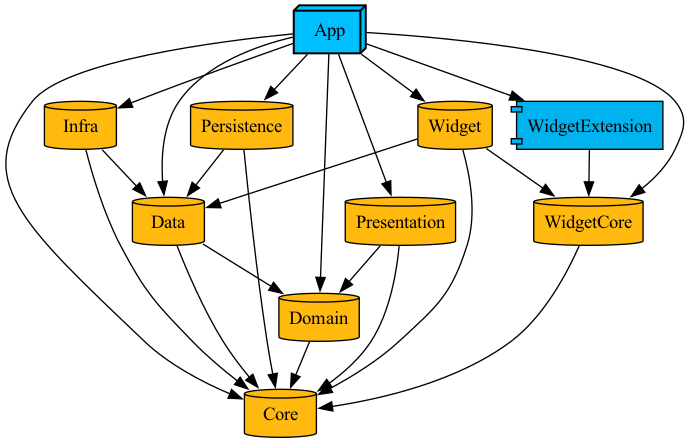
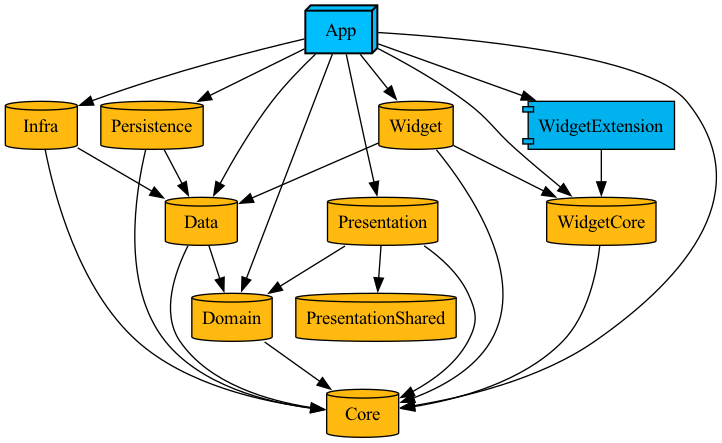
[#662] 공용 UI 요소를 Shared 모듈로 분리한다 (#674)
* chore: PresentationShared 하위 모듈 추가

* chore: Presentation 공용 타입을 PresentationShared로 이동

* docs: Tuist 의존성 그래프 갱신

diff --git a/Application/Presentation/Shared/Sources/Common/NavigationRouter.swift b/Application/Presentation/Shared/Sources/Common/NavigationRouter.swift
@@ -1,22 +1,21 @@
 //
 //  NavigationRouter.swift
-//  Presentation
+//  PresentationShared
 //
 //  Created by 최윤진 on 1/1/26.
 //
 
 import SwiftUI
-import Domain
 
 @Observable
-final class NavigationRouter<Route: Hashable> {
-    var path: [Route] = []
+public final class NavigationRouter<Route: Hashable> {
+    public var path: [Route] = []
 
-    var root: Route? {
+    public var root: Route? {
         path.first
     }
 
-    var detailPath: [Route] {
+    public var detailPath: [Route] {
         get {
             Array(path.dropFirst())
         }
@@ -29,11 +28,13 @@ final class NavigationRouter<Route: Hashable> {
         }
     }
 
-    func replace(with route: Route) {
+    public init() {}
+
+    public func replace(with route: Route) {
         path = [route]
     }
 
-    func push(_ route: Route) {
+    public func push(_ route: Route) {
         path.append(route)
     }
 }

diff --git a/Application/Presentation/Shared/Project.swift b/Application/Presentation/Shared/Project.swift
@@ -1,0 +1,12 @@
+import ProjectDescription
+import ProjectDescriptionHelpers
+
+let project = Project.devlogFramework(
+    name: "PresentationShared",
+    bundleId: "com.opfic.DevLog.PresentationShared",
+    versionXcconfigPath: "../../Shared/Version.xcconfig",
+    frameworkInfoPlistPath: "../../Shared/InfoPlists/Framework-Info.plist",
+    testsInfoPlistPath: "../../Shared/InfoPlists/UnitTests-Info.plist",
+    packages: DevLogPackages.defaultPackages,
+    hasTests: false
+)

diff --git a/Application/Presentation/Shared/Sources/Common/Component/LoadingView.swift b/Application/Presentation/Shared/Sources/Common/Component/LoadingView.swift
@@ -1,15 +1,16 @@
 //
 //  LoadingView.swift
-//  Presentation
+//  PresentationShared
 //
 //  Created by opfic on 5/16/25.
 //
 
 import SwiftUI
-import Domain
 
-struct LoadingView: View {
-    var body: some View {
+public struct LoadingView: View {
+    public init() {}
+
+    public var body: some View {
         ZStack {
             Color.gray.opacity(0.001).ignoresSafeArea()
             ProgressView()

diff --git a/Application/Presentation/Project.swift b/Application/Presentation/Project.swift
@@ -11,6 +11,7 @@ let project = Project.devlogFramework(
     dependencies: [
         .project(target: "Domain", path: "../Domain"),
         .project(target: "Core", path: "../Core"),
+        .project(target: "PresentationShared", path: "Shared"),
     ] + DevLogPackages.presentationPackageDependencies,
     hasTests: true
 )

diff --git a/Workspace.swift b/Workspace.swift
@@ -10,6 +10,7 @@ let workspace = Workspace(
         "Application/Infra",
         "Application/Persistence",
         "Application/Presentation",
+        "Application/Presentation/Shared",
         "Application/Widget",
         "Widget/WidgetCore",
         "Widget/WidgetExtension",

diff --git a/Application/Presentation/Sources/Todo/List/TodoListView.swift b/Application/Presentation/Sources/Todo/List/TodoListView.swift
@@ -9,6 +9,7 @@ import SwiftUI
 import ComposableArchitecture
 import Core
 import Domain
+import PresentationShared
 
 struct TodoListView: View {
     @Environment(NavigationRouter<HomeRoute>.self) private var router

diff --git a/Application/Presentation/Sources/Todo/Detail/TodoDetailView.swift b/Application/Presentation/Sources/Todo/Detail/TodoDetailView.swift
@@ -9,6 +9,7 @@ import SwiftUI
 import ComposableArchitecture
 import Core
 import Domain
+import PresentationShared
 
 struct TodoDetailView: View {
     @Environment(\.diContainer) private var container: DIContainer

diff --git a/Application/Presentation/Sources/Main/MainView.swift b/Application/Presentation/Sources/Main/MainView.swift
@@ -9,6 +9,7 @@ import SwiftUI
 import ComposableArchitecture
 import Core
 import Domain
+import PresentationShared
 
 struct MainView: View {
     @Environment(\.horizontalSizeClass) private var horizontalSizeClass

diff --git a/Application/Presentation/Sources/PushNotification/PushNotificationListView.swift b/Application/Presentation/Sources/PushNotification/PushNotificationListView.swift
@@ -8,6 +8,7 @@
 import SwiftUI
 import ComposableArchitecture
 import Core
+import PresentationShared
 
 struct PushNotificationListView: View {
     @Environment(\.colorScheme) private var colorScheme

diff --git a/Application/Presentation/Sources/Profile/ProfileView.swift b/Application/Presentation/Sources/Profile/ProfileView.swift
@@ -10,6 +10,7 @@ import SwiftUI
 import ComposableArchitecture
 import Core
 import Domain
+import PresentationShared
 
 struct ProfileView: View {
     @Bindable var store: StoreOf<ProfileFeature>

diff --git a/Application/Presentation/Sources/Settings/SettingsView.swift b/Application/Presentation/Sources/Settings/SettingsView.swift
@@ -7,6 +7,7 @@
 
 import SwiftUI
 import ComposableArchitecture
+import PresentationShared
 
 struct SettingsView: View {
     @Environment(NavigationRouter<ProfileRoute>.self) private var router

diff --git a/Application/Presentation/Sources/Search/SearchView.swift b/Application/Presentation/Sources/Search/SearchView.swift
@@ -9,6 +9,7 @@ import SwiftUI
 import ComposableArchitecture
 import Core
 import Domain
+import PresentationShared
 
 struct SearchView: View {
     @Environment(\.dismiss) private var dismiss
